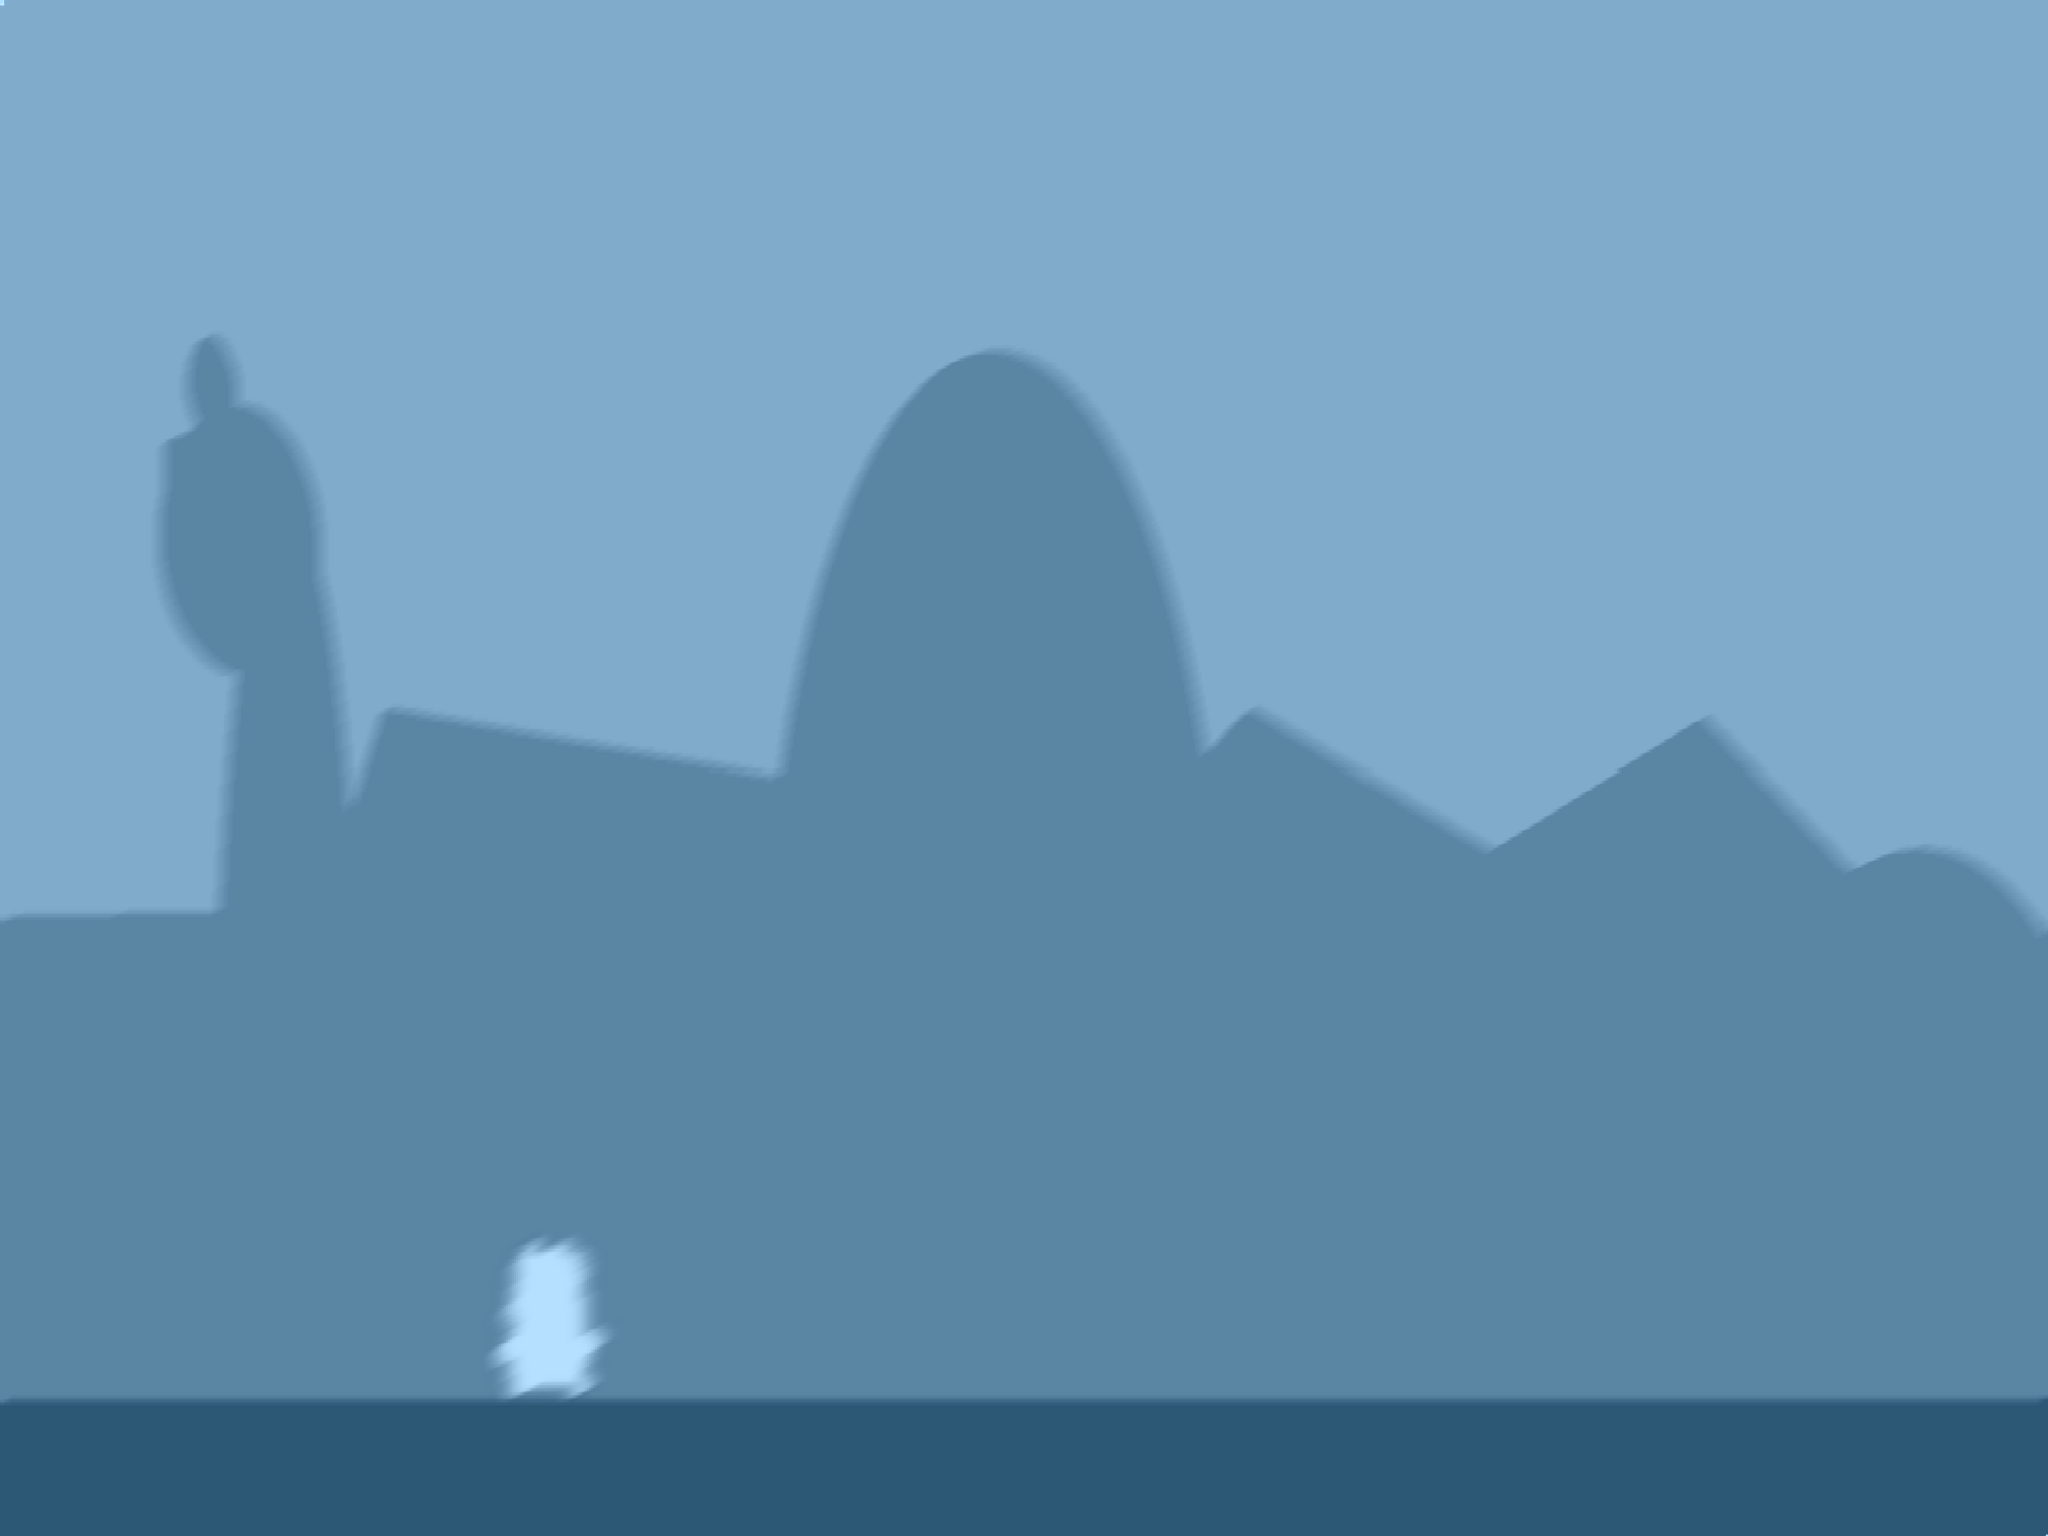
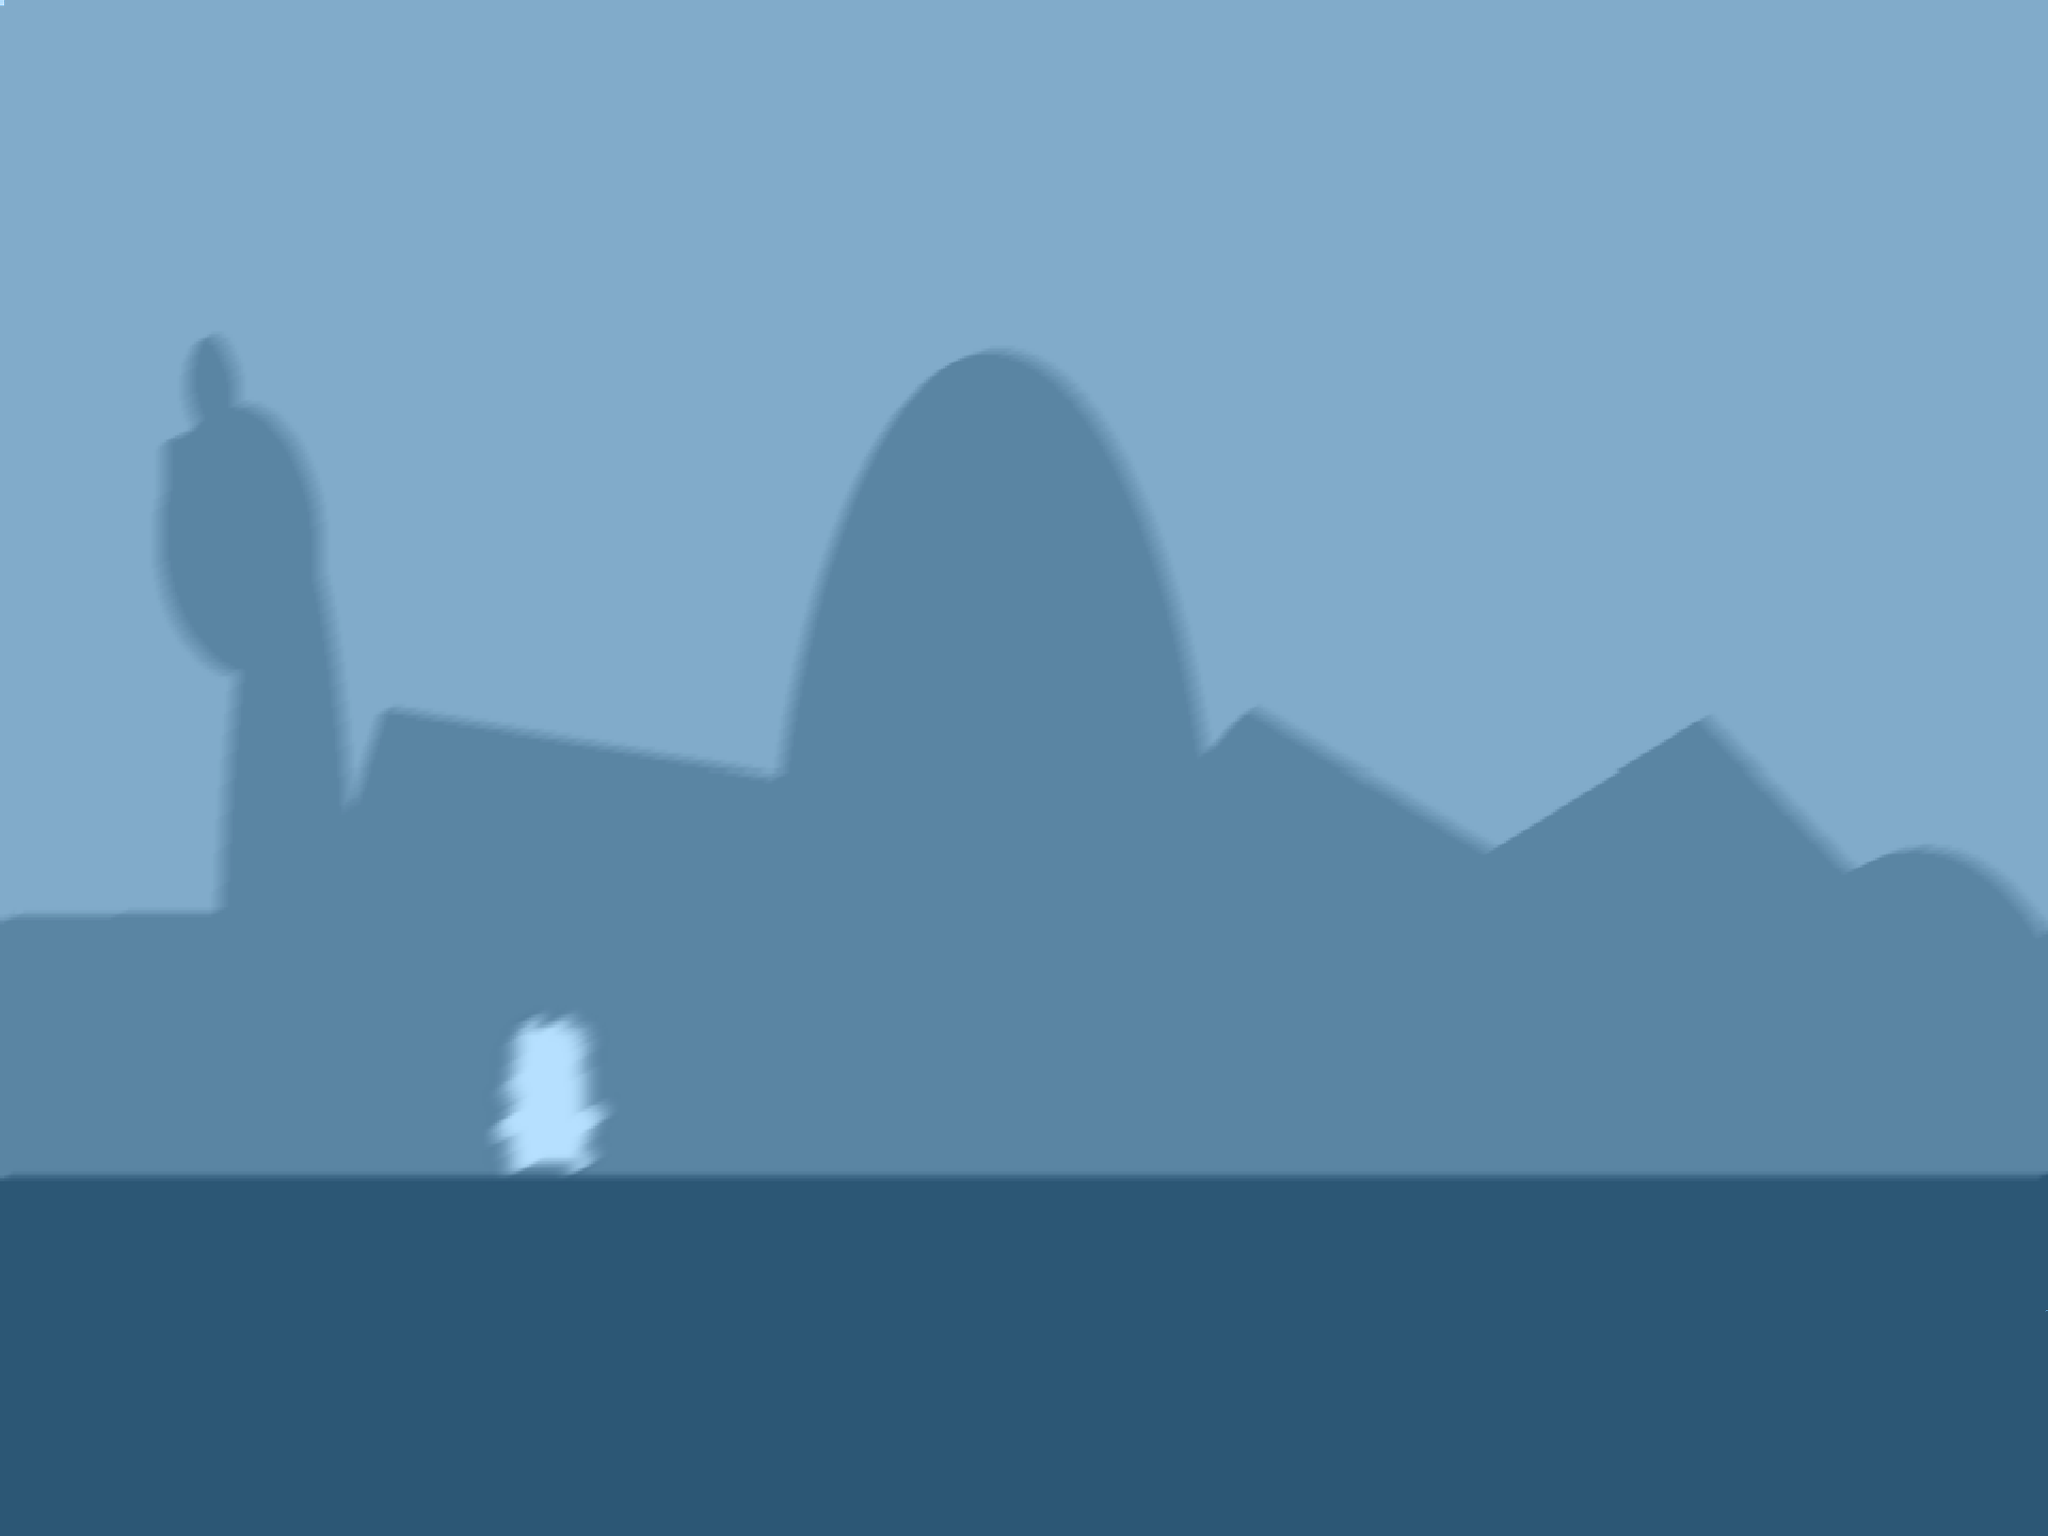
Updates to the design res

Changed region(s): [[0.0, 0.6562, 1.0, 0.9375]]

diff --git a/Classes/Definitions.h b/Classes/Definitions.h
@@ -19,21 +19,18 @@ typedef enum {
 	TAG_FOOD,
 } tags;
 
-
-#define PADDING 10
-
 #define DISTANCE_VALUE_LABEL_COLOR 255, 0, 127 
 
 // World
 #define VISIBLE_SIZE_WIDTH (Director::getInstance()->getVisibleSize().width)
 #define VISIBLE_SIZE_HEIGHT (Director::getInstance()->getVisibleSize().height)
 #define SCREEN_ORIGIN (Director::getInstance()->getVisibleOrigin())
-#define GAME_SPEED_INC (float)1.015
-#define GAME_SPEED_DEC (float)1.015
-#define GRAVITATIONAL_FORCE Vec2(0, -200)
-#define WORLD_MOVEMENT_SPEED 2.5f
-#define ENEMY_MOVEMENT_SPEED 3.0f
-#define MAX_GAME_SPEED 6.0f
+#define GAME_SPEED_INC (VISIBLE_SIZE_WIDTH * .0022)
+#define GAME_SPEED_DEC GAME_SPEED_INC
+
+#define WORLD_MOVEMENT_SPEED (VISIBLE_SIZE_WIDTH * .0035)
+#define ENEMY_MOVEMENT_SPEED (VISIBLE_SIZE_WIDTH * .0045)
+#define MAX_GAME_SPEED (VISIBLE_SIZE_WIDTH * .006)
 
 // Scenes
 #define DISPLY_TIME_SPLASH_SCENCE 2
@@ -41,8 +38,9 @@ typedef enum {
 
 // Player
 #define PLAYER_POSITION_IN_WINDOW ((Director::getInstance()->getVisibleSize().width / 10) * 2)
-#define MAX_PLAYER_VEL 200.0f
+#define MAX_PLAYER_VEL (VISIBLE_SIZE_HEIGHT * .70)
 #define PLAYER_JUMP_VEL Vec2(0.0f, MAX_PLAYER_VEL)
+#define GRAVITATIONAL_FORCE Vec2(0, -MAX_PLAYER_VEL)
 #define MAX_NO_OF_JUMPS 1
 #define JUMP_HEIGHT (Director::getInstance()->getVisibleSize().height * .75)
 
@@ -50,7 +48,7 @@ typedef enum {
 #define LABEL_FONT "fonts/go3v2.ttf"
 #define LABEL_FONT_SIZE (cocos2d::Director::getInstance()->getOpenGLView()->getDesignResolutionSize().width / cocos2d::Director::getInstance()->getVisibleSize().width * 16)
 //#define LABEL_FONT_SIZE (18 * (VISIBLE_SIZE_HEIGHT / VISIBLE_SIZE_WIDTH))
-#define PADDING 10
+#define PADDING (VISIBLE_SIZE_HEIGHT * .03)
 
 // New design resolution
 #define DESIGN_RESOLUTION_480X320    0

diff --git a/Classes/AppDelegate.cpp b/Classes/AppDelegate.cpp
@@ -43,28 +43,28 @@ bool AppDelegate::applicationDidFinishLaunching() {
 	glview->setDesignResolutionSize(designResolutionSize.width, designResolutionSize.height, ResolutionPolicy::SHOW_ALL);
 #else
 	glview->setDesignResolutionSize(designResolutionSize.width, designResolutionSize.height, ResolutionPolicy::NO_BORDER);
-#endif
+#endif	
 	Size frameSize = glview->getFrameSize();
 
 	std::vector<std::string> searchPath;
 	
-	if (frameSize.height > mediumResource.size.height)
+	if (frameSize.width > mediumResource.size.width)
 	{		
 		CCLOG("Using large resources");
 		searchPath.push_back(largeResource.directory);
-		director->setContentScaleFactor(largeResource.size.height / designResolutionSize.height);		
+		director->setContentScaleFactor(largeResource.size.width / designResolutionSize.width);
 	}
-	else if (frameSize.height > smallResource.size.height)
+	else if (frameSize.width > smallResource.size.width)
 	{
 		CCLOG("Using medium resources");
 		searchPath.push_back(mediumResource.directory);
-		director->setContentScaleFactor(mediumResource.size.height / designResolutionSize.height);
+		director->setContentScaleFactor(mediumResource.size.width / designResolutionSize.width);
 	}
 	else
 	{
 		CCLOG("Using small resources");
 		searchPath.push_back(smallResource.directory);
-		director->setContentScaleFactor(smallResource.size.height / designResolutionSize.height);
+		director->setContentScaleFactor(smallResource.size.width / designResolutionSize.width);
 	}
 	
 	// set searching path

diff --git a/Classes/CollisionManager.cpp b/Classes/CollisionManager.cpp
@@ -72,8 +72,7 @@ void CollisionManager::checkCollisionsWithItems()
 							if (WorldManager::getInstance()->getPlayer()->getScale() > 0.5)
 							{
 								WorldManager::getInstance()->getPlayer()->setScale(WorldManager::getInstance()->getPlayer()->getScale() - 0.01);
-								WorldManager::getInstance()->increaseGameWorldSpeed();
-								WorldManager::getInstance()->increaseEnemyMovementSpeed();
+								
 							}
 						}
 						else if (tileSprite->getName() == "food")
@@ -84,8 +83,7 @@ void CollisionManager::checkCollisionsWithItems()
 							if (WorldManager::getInstance()->getPlayer()->getScale() < 2.0)
 							{
 								WorldManager::getInstance()->getPlayer()->setScale(WorldManager::getInstance()->getPlayer()->getScale() + 0.01);
-								WorldManager::getInstance()->decreaseGameWorldSpeed();
-								WorldManager::getInstance()->decreaseEnemyMovementSpeed();
+								
 							}
 						}
 						else if (tileSprite->getName() == "shield" || tileSprite->getName() == "shieldA")

diff --git a/Classes/CollectableFactory.cpp b/Classes/CollectableFactory.cpp
@@ -36,13 +36,13 @@ void CollectableFactory::addItemLayer(std::string layerName)
 
 bool CollectableFactory::addTMXTileMap(const std::string& filename)
 {
-	m_pTileMap = TMXTiledMap::create(filename);
+	m_pTileMap = TMXTiledMap::create(filename);		
 	this->addChild(m_pTileMap);
 	return true;
 }
 
 bool CollectableFactory::initTilePositions(TMXLayer* layer, std::string name)
-{	
+{		
 	Size layerSize = layer->getLayerSize();
 	for (int i = 0; i < layerSize.width; i++)
 	{
@@ -50,7 +50,7 @@ bool CollectableFactory::initTilePositions(TMXLayer* layer, std::string name)
 		{
 			auto item = layer->tileAt(Vec2(i, j));
 			if (item)
-			{
+			{				
 				item->setName(name);
 				item->setPosition(Vec2(item->getPositionX() + VISIBLE_SIZE_WIDTH, SCREEN_ORIGIN.y + WorldManager::getInstance()->getFloorSprite()->getContentSize().height + item->getPositionY()));
 				item->setVisible(true);

diff --git a/Classes/WorldManager.cpp b/Classes/WorldManager.cpp
@@ -64,6 +64,7 @@ bool WorldManager::isXMLFileExist()
 {
 	std::string filepath = cocos2d::FileUtils::getInstance()->getWritablePath();
 	filepath.append(XMLDOC);
+	CCLOG("%s", filepath.c_str());
 	FILE *fp = fopen(filepath.c_str(), "r");
 	bool bRet = false;
 

diff --git a/Classes/Enemy.cpp b/Classes/Enemy.cpp
@@ -35,7 +35,7 @@ bool Enemy::init()
 
 void Enemy::getRandomSpeed()
 {
-	int max = 3;
+	int max = 2;
 	int min = 0;
 	m_nSpeed = (rand() % max + min);	
 }
